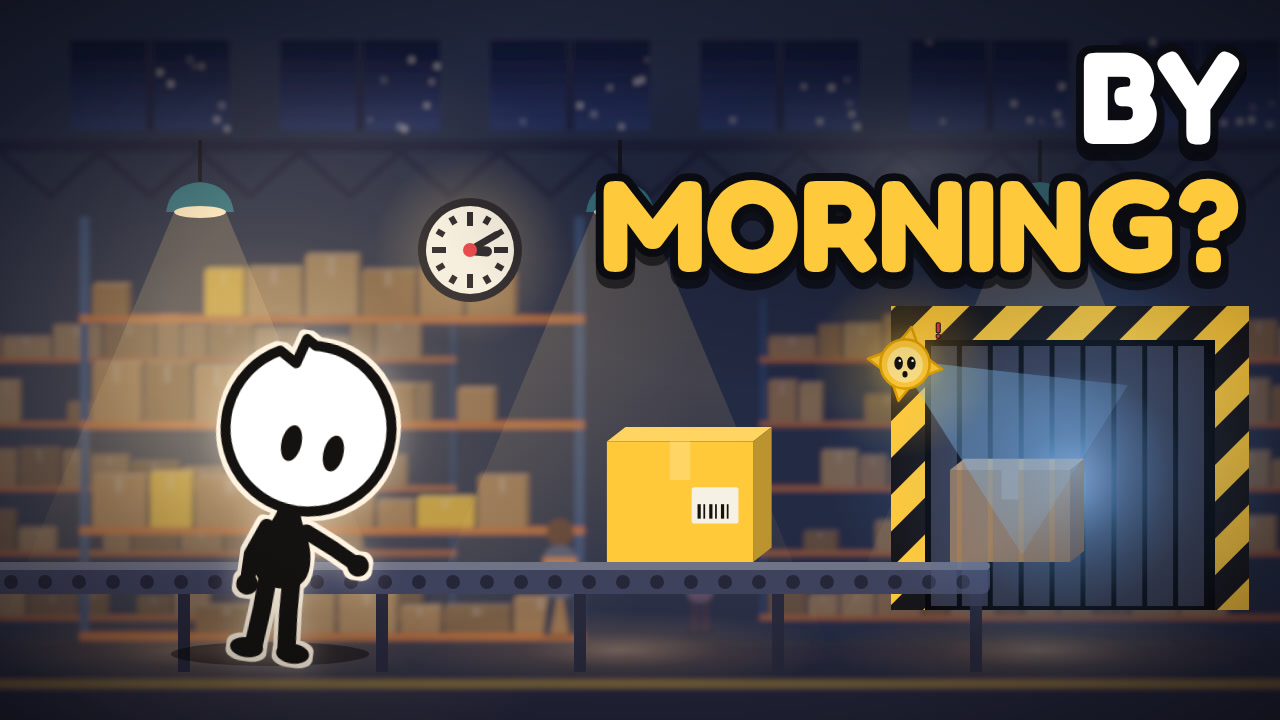
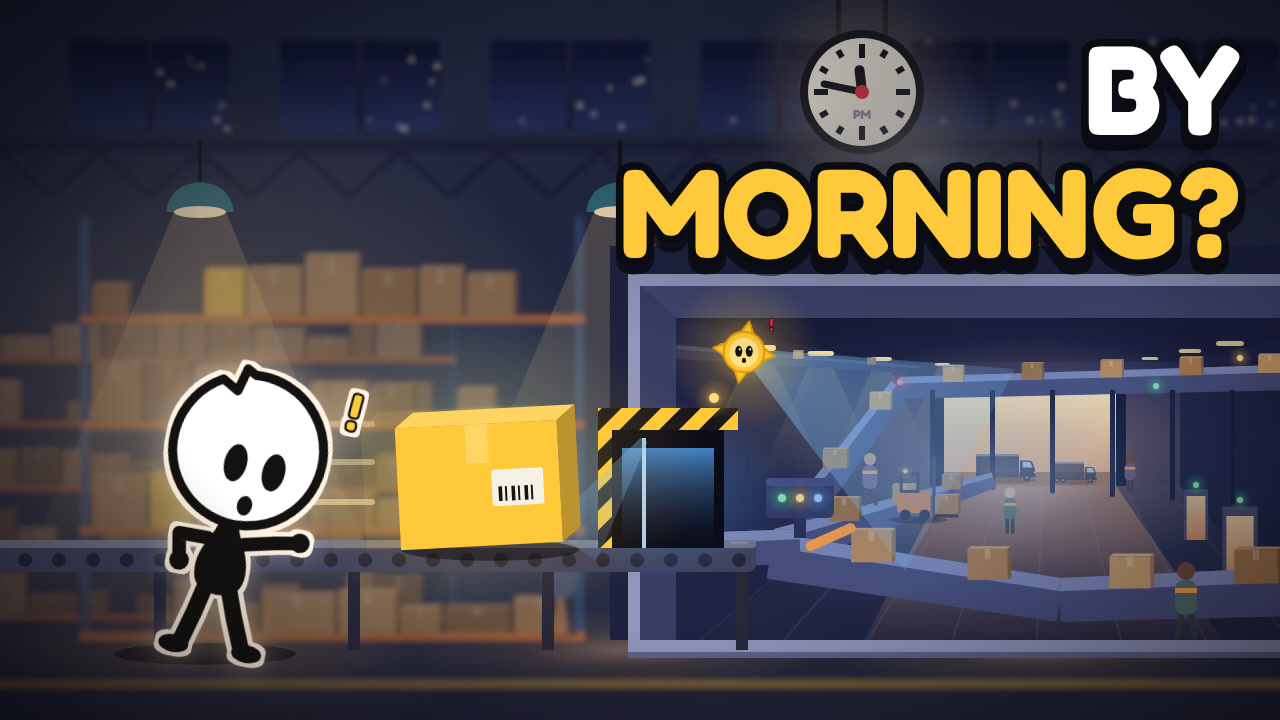
Video 001 thumbnail A: a micro-story with the hidden machine in cutaway (#3)
* Thumbnail A for video 001 tells a micro-story: cutaway hero

New 'cutaway' hero (the channel's signature): ZERO has just let go of the yellow box,
which shoots along the belt into a scanner set in a wall cut open on the enormous hidden
machine behind it (sorter, branching routes, overhead line, docks, workers, forklift,
a far door open on the dawn). The clock hangs beside the text at 11:47 PM, PIX lights up
the hidden hall, the visible warehouse steps back. The package playbook's A uses it.

Claude-Session: https://claude.ai/code/session_019zpaXsGrkw6aXph1KmAFC9

* Thumbnails: the micro-story rule validated on video 001 becomes the standing rule (docs)

Claude-Session: https://claude.ai/code/session_019zpaXsGrkw6aXph1KmAFC9

---------

diff --git a/src/thumbs/heroes.js b/src/thumbs/heroes.js
@@ -53,6 +53,111 @@
   const inHand = (kind, h, dx = 52, dy = -96, rot = -8) => (x, y, s, m) => `<g ${tr(x + (m ? -dx : dx) * s, y + dy * s, 1, m ? -rot : rot)}>${obj(kind, h * s / 1.5)}</g>`;
 
   const THEROES = {
+    // ---------------------------------------------------------------- the channel's signature: ZERO SEES WHAT WE DON'T
+    // ZERO has just put the thing on the belt; it shoots off into a wall that is cut open (dollhouse section) to show the
+    // enormous hidden machine behind it: scan, sort, routes branching, an overhead line, docks, and at the far end the
+    // door where it leaves at dawn. The clock hangs by the text (time is the hook). Reads at phone size as
+    // ZERO -> yellow box -> huge machine -> question. opts: obj, clock [h, m], dawn (far door colour), pix (true/false)
+    cutaway(ctx) {
+      const o = ctx.opts, a = ctx.accent ?? '#4FA8FF', m = ctx.m;
+      const belt = 548;                                   // top of the front belt
+      const X0 = 640, Y0 = 286, IX = 676, IY = 318;       // cut edge and the inner corner of the wall thickness
+      const vp = [1030, 430];                             // vanishing point of the hidden hall
+      const BW = [880, 362, 1180, 486];                   // its back wall: x0, y0, x1, y1 (floor line)
+      const dawn = o.dawn ?? '#FFB27A';
+      // a strip (belt) in perspective from A to B, width wa -> wb, lighter top edge
+      const strip = (ax, ay, bx, by, wa, wb, c = '#424C7C', top = '#7A86B8') => {
+        const d = Math.hypot(bx - ax, by - ay), nx = -(by - ay) / d, ny = (bx - ax) / d;
+        const P = (x, y, w, k) => `${f(x + nx * w * k)} ${f(y + ny * w * k)}`;
+        return `<path d="M ${P(ax, ay, wa, -0.5)} L ${P(bx, by, wb, -0.5)} L ${P(bx, by, wb, 0.5)} L ${P(ax, ay, wa, 0.5)} Z" fill="${c}"/><path d="M ${P(ax, ay, wa, -0.5)} L ${P(bx, by, wb, -0.5)} L ${P(bx, by, wb, -0.2)} L ${P(ax, ay, wa, -0.2)} Z" fill="${top}"/>`;
+      };
+      const along = (ax, ay, bx, by, wa, wb, ts, seed) => ts.map((t, i) => { const w = wa + (wb - wa) * t; return `<g ${tr(ax + (bx - ax) * t, ay + (by - ay) * t - w * 0.2)}>${box(w * 0.9, w * 0.7, brown[(seed + i) % 4], { depth: w * 0.12 })}</g>`; }).join('');
+      const tiny = (x, y, s, seed, pose) => `<g ${tr(x, y, s)}>${person(['#5C6B8A', '#6E5C7A', '#4E6A6A'][seed % 3], { vest: '#FF9E45', seed, pose, shadow: false })}</g>`;
+      const blink = (x, y, c, r = 4) => `${pool(x, y, r * 4, r * 4, c, 0.6)}<circle cx="${f(x)}" cy="${f(y)}" r="${r}" fill="${tint(c, 0.4)}"/>`;
+
+      // ---- the hidden hall (everything inside is clipped to the cut) ----
+      let hall = `<rect x="${IX}" y="${IY}" width="${W - IX + 60}" height="${700 - IY}" fill="#1A2148"/>`;
+      // ceiling, floor, left wall, back wall
+      hall += `<path d="M ${IX} ${IY} L ${W + 60} ${IY} L ${W + 60} ${IY + 8} L ${BW[2]} ${BW[1]} L ${BW[0]} ${BW[1]} Z" fill="#161C3E"/>`;
+      hall += `<path d="M ${IX} 720 L ${IX} 660 L ${BW[0]} ${BW[3]} L ${BW[2]} ${BW[3]} L ${W + 60} 660 L ${W + 60} 720 Z" fill="${K.linear('#232A4C', '#1A2040')}"/>`;
+      hall += Array.from({ length: 9 }, (_, i) => { const x = IX + i * 90; return `<path d="M ${f(x)} 660 L ${f(BW[0] + (x - IX) / (W + 60 - IX) * (BW[2] - BW[0]))} ${BW[3]}" stroke="#2C3458" stroke-width="2"/>`; }).join('');
+      hall += `<path d="M ${IX} ${IY} L ${BW[0]} ${BW[1]} L ${BW[0]} ${BW[3]} L ${IX} 660 Z" fill="#1B2246"/>`;
+      hall += `<rect x="${BW[0]}" y="${BW[1]}" width="${BW[2] - BW[0]}" height="${BW[3] - BW[1]}" fill="#1E2550"/>`;
+      // the far door, open on the dawn: the only warm-pink light in the frame (this is where "by morning" happens)
+      const dx0 = 944, dx1 = 1116, dy0 = 394;
+      hall += pool((dx0 + dx1) / 2, BW[3] - 30, 240, 120, dawn, 0.7);
+      hall += `<rect x="${dx0 - 10}" y="${dy0 - 10}" width="${dx1 - dx0 + 20}" height="${BW[3] - dy0 + 10}" fill="#0E1230"/><rect x="${dx0}" y="${dy0}" width="${dx1 - dx0}" height="${BW[3] - dy0}" fill="${K.linear('#FFE6B8', dawn)}"/>`;
+      hall += `<rect x="${dx0}" y="${BW[3] - 14}" width="${dx1 - dx0}" height="14" fill="${shade(dawn, 0.35)}"/>`;
+      hall += `<g ${tr(1006, BW[3] - 6, 0.13)} opacity="0.9">${K.truck('#2A2F4A', { cab: '#1E2340' })}</g><g ${tr(1074, BW[3] - 4, 0.1)} opacity="0.75">${K.truck('#2A2F4A', { cab: '#1E2340' })}</g>`;
+      hall += `<path d="M ${dx0} ${BW[3]} L ${dx1} ${BW[3]} L ${dx1 + 120} 660 L ${dx0 - 90} 660 Z" fill="${K.linear(dawn, dawn, true, 0.45, 0)}"/>`;
+      // docks along the right wall, trucks backed in
+      hall += `<path d="M ${W + 60} ${IY + 8} L ${BW[2]} ${BW[1]} L ${BW[2]} ${BW[3]} L ${W + 60} 660 Z" fill="#1A2045"/>`;
+      hall += [[1196, 0.55], [1240, 0.8]].map(([x, k]) => `<g ${tr(x, 540 + (k - 0.55) * 160)}><rect x="${-22 * k}" y="${-92 * k}" width="${44 * k}" height="${92 * k}" fill="${tint('#2A3260', 0.1)}"/><rect x="${-17 * k}" y="${-80 * k}" width="${34 * k}" height="${80 * k}" fill="${K.linear('#FFD9A8', '#E8945C')}" opacity="0.85"/>${blink(0, -100 * k, '#3DDC84', 3)}</g>`).join('');
+      // ceiling lamps receding, and their light on the floor
+      for (let i = 0; i < 4; i++) { const t = i / 4, x = 760 + (vp[0] - 760) * t * 0.9, y = IY + 30 + (BW[1] + 10 - IY - 30) * t, k = 1 - t * 0.7; hall += `${K.cone(x, y, 16 * k, 150 * k, 150 * k, '#FFD58A', 0.18)}<rect x="${f(x - 16 * k)}" y="${f(y - 3)}" width="${f(32 * k)}" height="${f(6 * k)}" rx="3" fill="#FFE7A8"/>`; }
+      for (let i = 0; i < 3; i++) { const t = i / 3, x = 1230 - (1230 - vp[0]) * t * 0.6, y = IY + 26 + (BW[1] + 6 - IY - 26) * t, k = 1 - t * 0.6; hall += `<rect x="${f(x - 14 * k)}" y="${f(y - 3)}" width="${f(28 * k)}" height="${f(5 * k)}" rx="3" fill="#FFE7A8" opacity="0.8"/>`; }
+      // a second line high up, far away: the hall keeps going
+      hall += strip(IX, 352, BW[0] + 40, BW[1] + 8, 14, 8, '#2A3158', '#3A4470') + along(IX, 352, BW[0] + 40, BW[1] + 8, 14, 8, [0.2, 0.5, 0.8], 1);
+      // the overhead line: parcels climb a ramp and cross the hall up high
+      hall += strip(800, 520, 900, 388, 30, 22) + strip(900, 388, W + 60, 376, 22, 26);
+      hall += Array.from({ length: 7 }, (_, i) => `<rect x="${f(930 + i * 60)}" y="390" width="5" height="${f(BW[3] - 390 + (i * 60) * 0.06)}" fill="#151A38"/>`).join('');
+      hall += along(800, 520, 900, 388, 30, 22, [0.35, 0.8], 1) + along(900, 388, W + 60, 376, 22, 26, [0.12, 0.3, 0.48, 0.66, 0.84], 2);
+      // straight on toward the dawn door, and the big route curving to the docks
+      hall += strip(780, 548, dx0 + 50, BW[3] - 6, 40, 16) + along(780, 548, dx0 + 50, BW[3] - 6, 40, 16, [0.3, 0.58, 0.8], 3);
+      hall += strip(770, 556, 1060, 600, 46, 44) + strip(1060, 600, W + 60, 590, 44, 50) + along(770, 556, 1060, 600, 46, 44, [0.35, 0.75], 0) + along(1060, 600, W + 60, 590, 44, 50, [0.25, 0.7], 2);
+      // the belt coming out of the scanner
+      hall += strip(IX - 10, belt + 4, 800, belt - 2, 36, 34);
+      // the sorter where the routes split: a diverter with three route lights
+      hall += `<g ${tr(800, 536)}><rect x="-34" y="-58" width="68" height="40" rx="6" fill="#2C3460"/><rect x="-34" y="-58" width="68" height="8" rx="4" fill="#3E4880"/>${blink(-18, -38, '#3DDC84', 4)}${blink(0, -38, C.YEL, 4)}${blink(18, -38, a, 4)}<rect x="-6" y="-18" width="12" height="20" fill="#232A50"/></g>`;
+      hall += `<g ${tr(806, 548, 1, -24)}><rect x="0" y="-5" width="54" height="10" rx="5" fill="#FF9E45"/></g>`;
+      // a forklift with a pallet, tiny night-shift workers
+      hall += `<g ${tr(918, 520, 0.42)}>${K.shadow(0, 0, 70, 0.4)}<rect x="-50" y="-70" width="80" height="54" rx="10" fill="#E07B39"/><rect x="-40" y="-110" width="40" height="42" fill="none" stroke="#2A2F45" stroke-width="7"/><rect x="34" y="-150" width="8" height="150" fill="#2A2F45"/><rect x="40" y="-14" width="56" height="8" fill="#2A2F45"/><g ${tr(68, -14)}>${box(56, 44, brown[1], { depth: 8 })}</g><circle cx="-30" cy="-12" r="13" fill="#15182A"/><circle cx="16" cy="-12" r="13" fill="#15182A"/>${blink(-30, -116, C.YEL, 5)}</g>`;
+      hall += tiny(870, 506, 0.34, 1, 'walk') + tiny(1130, 492, 0.24, 4) + tiny(1186, 640, 0.5, 2, 'walk') + tiny(1010, 534, 0.3, 5);
+      // blinking operational lights
+      hall += blink(BW[0] + 20, BW[1] + 20, C.RED, 3) + blink(BW[2] - 24, BW[1] + 24, '#3DDC84', 3) + blink(1240, IY + 40, C.YEL, 3);
+      // depth haze toward the back
+      hall += `<rect x="${IX}" y="${IY}" width="${W + 60 - IX}" height="${660 - IY}" fill="${K.radial('#1A2350', 0.35)}"/>`;
+      hall += pool(1000, 470, 320, 170, a, 0.32);
+
+      const clipId = 'cutclip';
+      // the visible warehouse steps back: darker and softer than the story in front of it
+      let back = `<rect x="-60" y="-60" width="${X0 + 160}" height="780" fill="${K.linear('#0A0D1E', '#0A0D1E', false, 0.38, 0)}"/>`;
+      back += `<defs><clipPath id="${clipId}"><rect x="${IX}" y="${IY}" width="${W + 60 - IX}" height="${640 - IY}"/></clipPath></defs>`;
+      // the building's wall, the cut through it (lighter section), and the wall thickness
+      back += `<rect x="${X0 - 30}" y="${Y0 - 40}" width="${W - X0 + 120}" height="${640 - Y0 + 40}" fill="#1A2140"/>`;
+      back += `<g clip-path="url(#${clipId})">${hall}</g>`;
+      back += `<path d="M ${X0} ${Y0} L ${W + 60} ${Y0} L ${W + 60} ${IY} L ${IX} ${IY} Z" fill="#3A4470"/><path d="M ${X0} ${Y0} L ${IX} ${IY} L ${IX} 640 L ${X0} 640 Z" fill="#323C66"/>`;
+      back += `<path d="M ${X0 - 12} ${Y0 - 12} L ${W + 60} ${Y0 - 12} L ${W + 60} ${Y0} L ${X0} ${Y0} L ${X0} 640 L ${X0 - 12} 640 Z" fill="#8C96BE"/><rect x="${X0 - 12}" y="640" width="${W - X0 + 80}" height="12" fill="#8C96BE"/><rect x="${X0 - 12}" y="652" width="${W - X0 + 80}" height="6" fill="#5A6390"/>`;
+      // the front belt into the scanner tunnel at the cut
+      back += `<g ${tr(-60, belt)}>${K.conveyor(IX + 140, '#3A4160', { legs: 80 })}</g>`;
+      back += Array.from({ length: 6 }, (_, i) => `<rect x="${f(560 + i * 34)}" y="${belt - 7}" width="18" height="3" rx="1.5" fill="#8C96BE" opacity="${f(0.25 + i * 0.05)}"/>`).join('');
+      // scanner tunnel: hazard frame, blue light inside, a sheet of scan light across the belt
+      const sx0 = 612, sx1 = 724, sy = 430;
+      back += `${pool(668, 490, 120, 90, a, 0.6)}<rect x="${sx0}" y="${sy}" width="${sx1 - sx0}" height="${belt - sy}" fill="#090B18"/>`;
+      back += `<rect x="${sx0 + 10}" y="${sy + 18}" width="${sx1 - sx0 - 20}" height="${belt - sy - 18}" fill="${K.linear(a, '#0B1030', true, 0.75, 0.1)}"/>`;
+      back += `${K.hazard(sx0 - 14, sy - 22, sx1 - sx0 + 28, 22, C.YEL, '#14151C', 14)}${K.hazard(sx0 - 14, sy - 22, 14, belt - sy + 22, C.YEL, '#14151C', 14)}`;
+      back += `<rect x="${sx0 + 30}" y="${sy + 8}" width="4" height="${belt - sy - 8}" fill="#BFE3FF" opacity="0.9"/>${K.beam(sx0 + 32, sy + 10, sx0 - 40, belt - 4, 60, '#7CC2FF', 0.35)}`;
+      back += blink(sx1 - 10, sy - 32, C.YEL, 5);
+      // the hero box, already moving: tilted back by the jolt, faint trail, speed lines
+      const bx = 482, bw = 162, bh = 122, tilt = -3;
+      back += pool(bx, belt - 80, 230, 150, '#FFC93C', 0.4);
+      back += [0.1, 0.05].map((op, i) => `<g ${tr(bx - 34 * (i + 1), belt - 2, 1, tilt)} opacity="${op}">${box(bw, bh, C.YEL, { tape: false })}</g>`).join('');
+      back += [[-46, 110], [-86, 150], [-124, 90]].map(([y, l], i) => `<rect x="${f(bx - bw / 2 - 26 - l)}" y="${belt + y - 3}" width="${l}" height="6" rx="3" fill="#FFE7A8" opacity="${0.55 - i * 0.1}"/>`).join('');
+      back += `${K.shadow(bx + 8, belt + 2, bw * 0.55, 0.45)}<g ${tr(bx, belt - 2, 1, tilt)}>${o.obj && o.obj !== 'box' ? obj(o.obj, 150, { m }) : box(bw, bh, C.YEL, { label: true })}</g>`;
+
+      // the clock hangs from the roof beside the question: 11:47 at night -> "by morning?"
+      const [hh, mm] = o.clock ?? ctx.wopts.clock ?? [11, 47];
+      const cx = o.clockAt?.[0] ?? 862, cy = o.clockAt?.[1] ?? 92, r = o.clockR ?? 54;
+      let front = `<rect x="${cx - 26}" y="-10" width="5" height="${cy - r + 10}" fill="#11131F"/><rect x="${cx + 21}" y="-10" width="5" height="${cy - r + 10}" fill="#11131F"/>`;
+      front += `<g ${tr(cx, cy)}><g transform="${m ? 'scale(-1 1)' : ''}">${K.clock(r, hh, mm, { glow: '#FFD58A' })}<g ${tr(0, r * 0.42)}>${K.label('PM', r * 0.24, '#8A90A6')}</g></g></g>`;
+
+      const pix = o.pix === false ? false : { x: 744, y: 352, s: 0.7, face: 2, scan: [960, 470], beamW: 230 };
+      return {
+        back, front, focus: [bx, belt - 90], focusR: 200, box: [370, 380, 260, 170],
+        zero: { x: 205, height: 0.42, st: { face: 3, hl: [72, 150], hr: [149, 124], fl: [82, 206], fr: [124, 202], lean: 11, headR: 4, look: [7, 0], pose: 'neutral', ...(o.zst || {}) } },
+        pix, textZone: 'tr', textBox: { x: 620, y: 30, w: 620, h: 250 },
+      };
+    },
     // ---------------------------------------------------------------- CURIOSITY: things vanish into the system
     // an object rides the belt into the mouth of the system; ZERO leans in to see where it goes
     mouth(ctx) {

diff --git a/src/thumbs/worlds.js b/src/thumbs/worlds.js
@@ -35,7 +35,7 @@
       let mid = [200, 620, 1040].map(x => `${cone(x, 210, 50, 420, 440, '#FFD58A', 0.22)}${K.lamp(x, 200, '#FFD58A', { cord: 60 })}`).join('');
       mid += [200, 620, 1040].map(x => pool(x, fl + 10, 220, 40, '#FFB867', 0.35)).join('');
       // the night-shift clock (worldOpts.clock = [h, m]): tells "while you sleep" without words
-      if (ctx.wopts.clock) mid += `<g ${tr(470, 250)}>${K.clock(44, ctx.wopts.clock[0], ctx.wopts.clock[1], { glow: '#FFD58A' })}</g>`;
+      if (ctx.wopts.clock && ctx.hero !== 'cutaway') mid += `<g ${tr(470, 250)}>${K.clock(44, ctx.wopts.clock[0], ctx.wopts.clock[1], { glow: '#FFD58A' })}</g>`;
       return { back, mid, floor: fl };
     },
     // the sorting hub seen from a catwalk: belts converging to the horizon, thousands of parcels, open doors on the night

diff --git a/src/thumbs/compose.js b/src/thumbs/compose.js
@@ -82,7 +82,7 @@
     K.reset();
     const m = spec.zero.side === 'right';
     const fam = spec.family;
-    const ctx = { W, H, m, fam, accent: spec.accent ?? fam.accent, floor: 640, opts: spec.heroOpts || {}, wopts: spec.worldOpts || {} };
+    const ctx = { W, H, m, fam, accent: spec.accent ?? fam.accent, floor: 640, opts: spec.heroOpts || {}, wopts: spec.worldOpts || {}, hero: spec.hero };
     const world = window.TWORLDS[spec.world] || window.TWORLDS.machine;
     const w = world(ctx);
     ctx.floor = w.floor ?? ctx.floor;

diff --git a/docs/miniaturas.md b/docs/miniaturas.md
@@ -32,6 +32,25 @@ Sin ordenador: **Actions → Thumbnails → Run workflow** con el título, o sub
 - **Título ≠ texto:** el título explica qué se descubre; la miniatura crea la emoción. El director descarta cualquier texto que repita la mayoría de las palabras del título.
 - **Sin cifras inventadas:** el texto automático nunca pone números como hechos. Si una miniatura lleva una cifra, va en `THUMBNAIL_TEXT` y tiene que estar en la hoja de fuentes del vídeo (FACT).
 
+## 2b. Regla fija desde el vídeo 001: una micro-historia, no una escena
+
+Validada por Chiño el 22-10-2026 con la A del vídeo 001 (`cutaway`). Vale para toda miniatura nueva.
+
+- **Secuencia:** ZERO → OBJETO → SISTEMA ENORME → PREGUNTA. El objeto acaba de empezar su viaje y ZERO lo está viendo pasar o interactuando con él (lo acaba de soltar, lo persigue con el cuerpo, intenta alcanzarlo). ZERO no mira a cámara salvo que haya un motivo fuerte, y su cuerpo lleva la mirada hacia el objeto y el sistema.
+- **ZERO simple, mundo rico.** La calidad sube con la luz, la profundidad, la escala, la maquinaria y el movimiento, nunca añadiendo detalle a ZERO.
+- **El objeto es el detonante:** un poco más grande y con el color de acento sobre fondo oscuro, como un faro. Movimiento sutil y elegante (inclinación por el tirón, estela tenue, líneas de velocidad), nunca efectos de cómic.
+- **ZERO ve lo que nosotros no:** parte del sistema se enseña en corte (pared abierta, casa de muñecas) para ver el mecanismo escondido. Se revela lo justo para fascinar y se esconde lo justo para que haga falta hacer clic. Nunca como infografía.
+- **Escala:** ZERO pequeño frente al sistema enorme que hace falta para un objeto simple. Capas: delante ZERO, después el objeto, después la máquina de entrada y al fondo la operación gigante.
+- **Tiempo o tensión:** si el tema tiene un plazo o una presión (de noche, en segundos, cada mes), se integra en la imagen, como el reloj junto al texto, sin añadir más texto.
+- **Vida de fondo:** paquetes, luces que parpadean, gente diminuta, vehículos. Nunca compite con la historia principal.
+- **PIX solo con función:** revela, ilumina, escanea o señala. Si no aporta, fuera.
+- **Luz que guía:** ZERO, luego el objeto, luego el sistema escondido y por último el texto. El fondo visible, más oscuro y suave.
+- **1 ZERO, 1 OBJETO, 1 ACCIÓN, 1 SISTEMA ENORME, 1 PREGUNTA.**
+- **Convenciones del canal:** ZERO = simple · mundo = rico · PIX = revela · amarillo/acento = lo importante · mecanismos escondidos = curiosidad · cortes = descubrimiento · diferencia de escala = sorpresa.
+- **Mejorar, no rehacer:** cuando ya hay una miniatura aprobada, se conserva lo que funciona y se mejora.
+
+Control final (además de las comprobaciones automáticas): ¿ZERO se ve al instante? ¿Y el objeto? ¿El objeto va claramente hacia algún sitio? ¿ZERO interactúa? ¿El sistema parece mucho más grande de lo que ZERO esperaba? ¿Hay presión de tiempo o tensión? ¿El texto se lee al instante? ¿Plantea una pregunta en vez de dar la respuesta? ¿Funciona a 160×90? ¿Es para adultos? ¿Parece una historia animada y no una infografía? ¿Es inconfundiblemente Zero Understands? Si alguna respuesta importante es no, se rehace la composición.
+
 ## 3. Composición estándar (igual en todo el canal)
 
 Capas, de atrás adelante: **mundo** (desenfocado, más oscuro) → **luz** (un charco detrás de ZERO y otro en la idea principal) → **idea principal** → **ZERO** → primer plano → **PIX** → viñeta → **texto**.
@@ -110,7 +129,7 @@ Si alguna respuesta es no, se rediseña: cambiar texto o emoción con `VARIANTS`
 
 - `src/thumbs/kit.js`: piezas (cajas, cintas, boca del sistema, monedas, tarjetas, datáfono, bancos, cámaras acorazadas, aviones, asientos, estanterías, máquinas tragaperras, servidores, gráficos, paraguas, recibos, gente diminuta, luz).
 - `src/thumbs/worlds.js`: los 15 mundos de fondo.
-- `src/thumbs/heroes.js`: las 22 mini-historias (`mouth`, `ride`, `pipe`, `corridor`, `watcher`, `scanned`, `slices`, `empty`, `wheel`, `gate`, `swarm`, `umbrella`, `stamp`, `chart`, `overload`, `shrink`, `hub`, `giant`, `web`, `machine`, `funnel`, `two`).
+- `src/thumbs/heroes.js`: las 23 mini-historias (`cutaway`, `mouth`, `ride`, `pipe`, `corridor`, `watcher`, `scanned`, `slices`, `empty`, `wheel`, `gate`, `swarm`, `umbrella`, `stamp`, `chart`, `overload`, `shrink`, `hub`, `giant`, `web`, `machine`, `funnel`, `two`). `cutaway` es la firma del canal (vídeo 001, A): ZERO acaba de soltar el objeto en la cinta, que se mete en una pared cortada en sección que deja ver la máquina enorme escondida detrás (escanear, clasificar, rutas, muelles, una puerta abierta al amanecer); el reloj cuelga junto al texto. Patrón reutilizable: ZERO + objeto en movimiento + sistema gigante visto en corte + pregunta.
 - `src/thumbs/compose.js`: capas, ZERO y sus emociones, PIX, texto, luz, QA.
 - `src/thumbs/director.mjs`: familias, manuales de tema y decisiones automáticas.
 - `src/thumbs/render.mjs` + `tools/thumbs.mjs`: render con Chromium y hoja de revisión.
